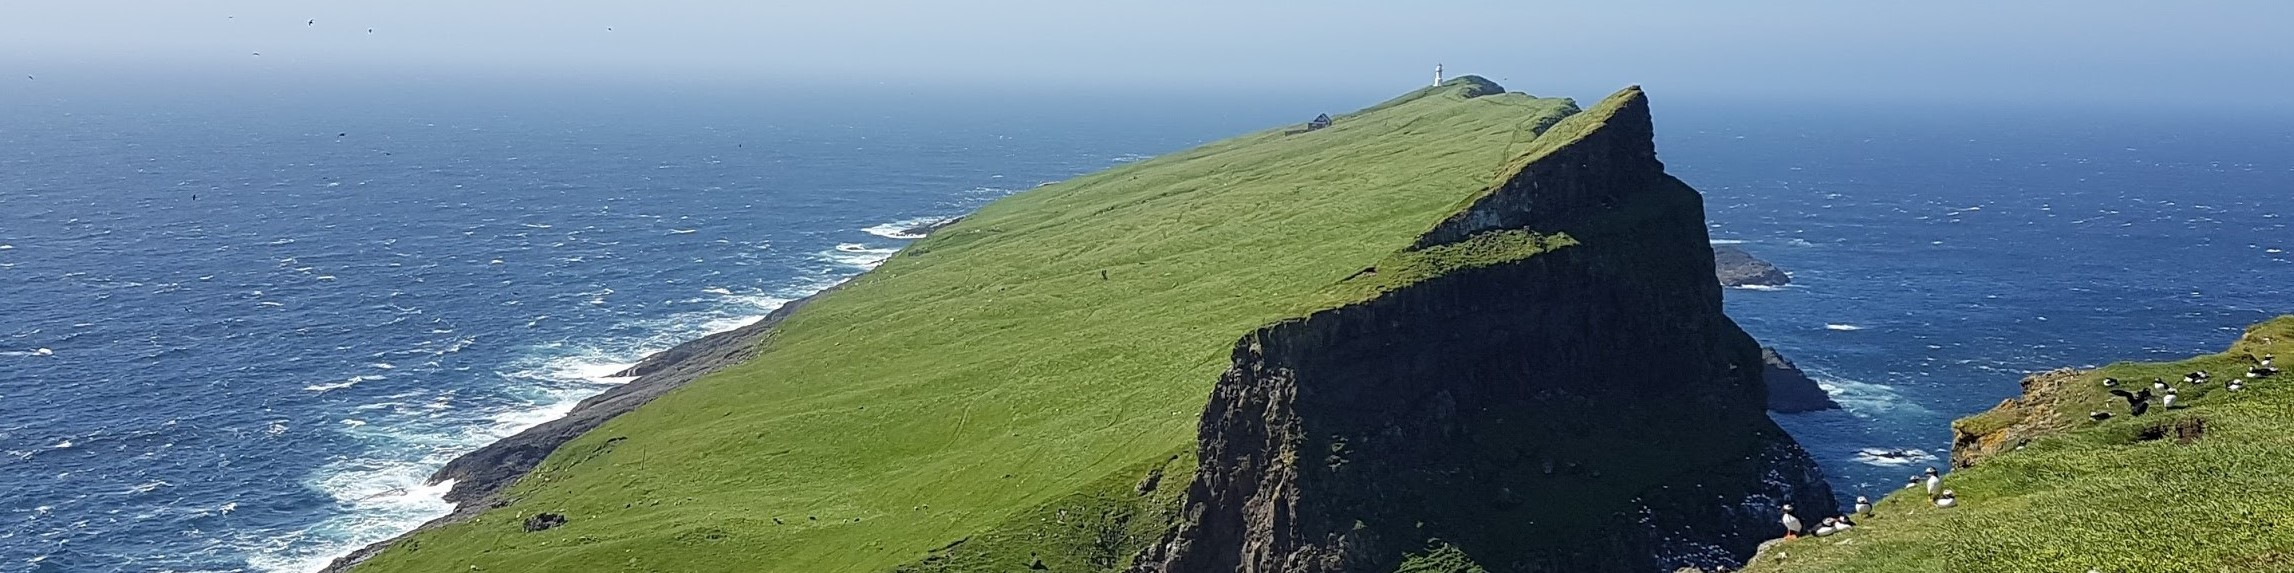
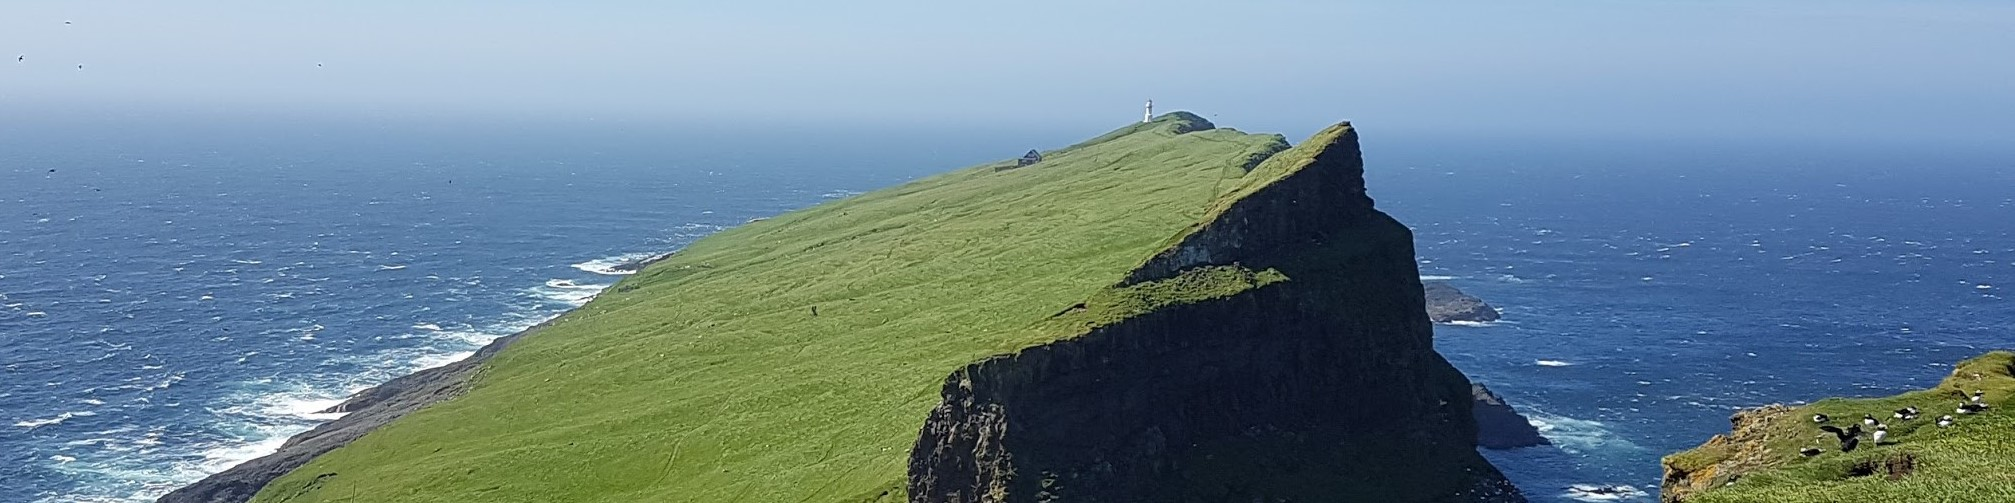
Added inspire project to carousel

diff --git a/index.html b/index.html
@@ -24,10 +24,11 @@ title: Professional website for Erlend Dancke Sandorf
       </div>
       <!-- Slide 2 -->
       <div class = "carousel-item">
-        <img src = "assets/img/mykines.jpg" class = "d-block w-100" alt = "...">
+        <img src = "assets/img/inspire-project-landscape.jpg" class = "d-block w-100" alt = "...">
         <div class = "carousel-caption d-none d-md-block">
-          <h5>Second slide label</h5>
-          <p>Lorem ipsum dolor sit amet, consectetur adipiscing elit.</p>
+          <h5>The INSPiRE Project</h5>
+          <p>The Influence of Information Search on Preference Formation and Choice</p>
+          <a href = "https://inspire-project.info" class = "btn btn-info">Read more</a>
         </div>
       </div>
       <!-- Slide 3 -->
